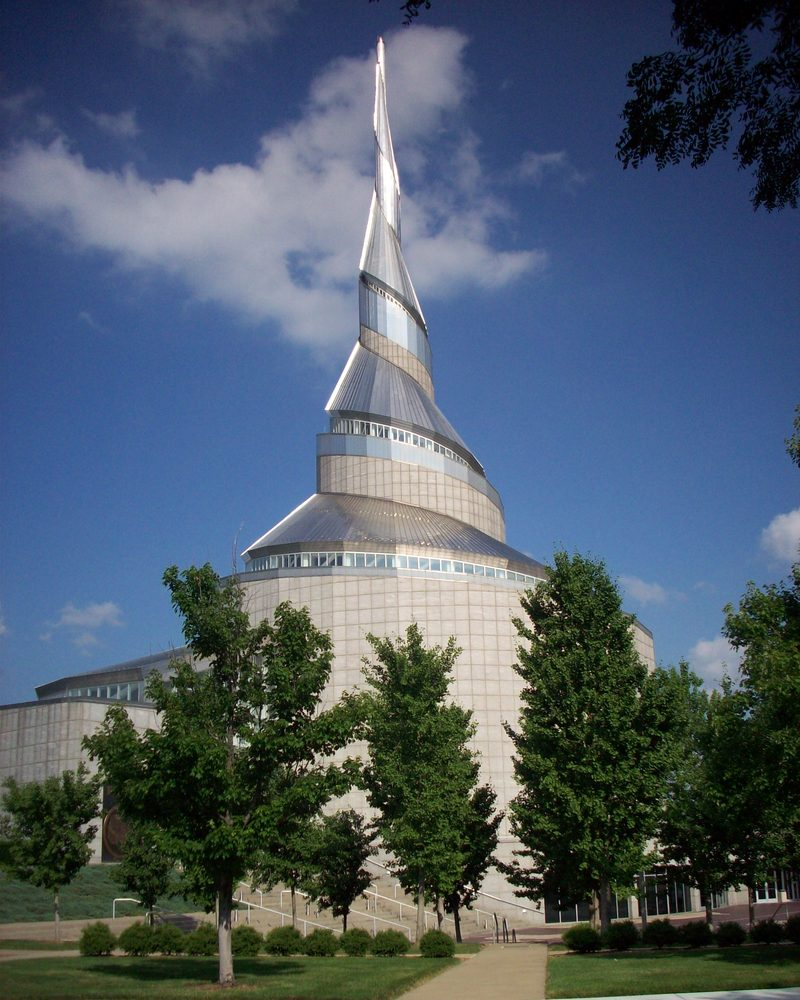
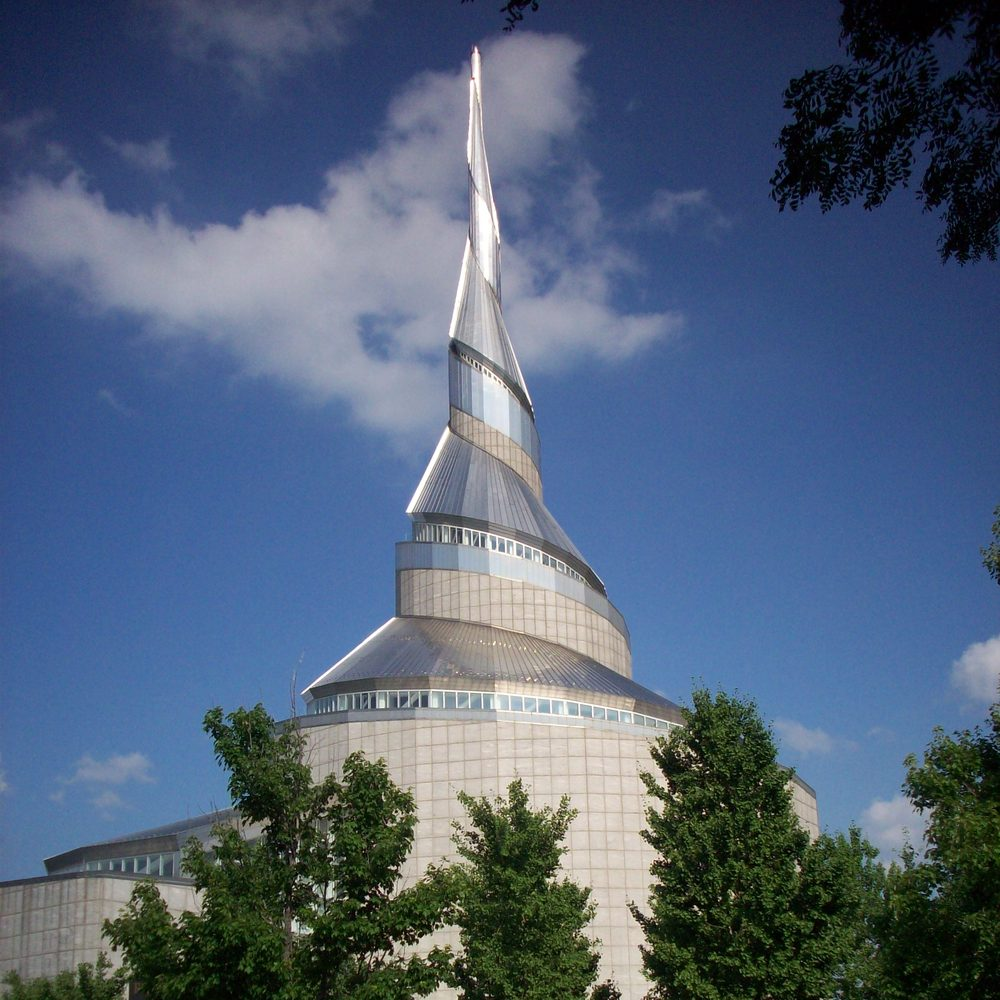
Show itinerary photos as 280px squares
Swap the arch frames for plain squares with the site's small corner
radius, re-cropped from the Commons originals at 1000x1000. The photo
column is 280px on desktop, 200px on tablets and full width on phones.

diff --git a/index.html b/index.html
@@ -112,7 +112,7 @@
             <p>Gather at 1:30 PM at the Independence Visitors' Center. The Temple Lot, the Community of Christ Temple, the 1833 printing office site, and the courthouse square, then a welcome dinner with your hosts.</p>
             <p class="her"><strong>Her story</strong>Teenage sisters Mary Elizabeth and Caroline Rollins rescued pages of the revelations as a mob wrecked the press, and hid on top of them in a cornfield.</p>
           </div>
-          <figure class="day-photo"><img src="assets/itinerary/day1-independence.jpg" alt="The spiral spire of the Community of Christ Temple in Independence, Missouri" width="800" height="1000" loading="lazy"></figure>
+          <figure class="day-photo"><img src="assets/itinerary/day1-independence.jpg" alt="The spiral spire of the Community of Christ Temple in Independence, Missouri" width="1000" height="1000" loading="lazy"></figure>
         </article>
         <article class="day">
           <div><div class="day-num">Day 2</div><div class="day-date">Tue, April 20</div></div>
@@ -121,7 +121,7 @@
             <p>Liberty Jail, the Eight Witnesses monument, the graves of David Whitmer, Oliver Cowdery, Jacob and John Whitmer, the Richmond courthouse square, and the Far West temple site. Lunch on your own on Liberty's historic square; group dinner in the evening.</p>
             <p class="her"><strong>Her story</strong>Mary Fielding Smith and her sister Mercy Fielding Thompson travelled 40 miles in February so Hyrum could see his newborn son in Liberty Jail. In Richmond, Mary Whitmer, the only woman known to have seen the gold plates, rests beside her husband.</p>
           </div>
-          <figure class="day-photo"><img src="assets/itinerary/day2-whitmer.jpg" alt="David Whitmer's headstone in Richmond, Missouri, inscribed with his testimony" width="800" height="1000" loading="lazy"></figure>
+          <figure class="day-photo"><img src="assets/itinerary/day2-whitmer.jpg" alt="David Whitmer's headstone in Richmond, Missouri, inscribed with his testimony" width="1000" height="1000" loading="lazy"></figure>
         </article>
         <article class="day">
           <div><div class="day-num">Day 3</div><div class="day-date">Wed, April 21</div></div>
@@ -130,7 +130,7 @@
             <p>Hawn's Mill, Adam-ondi-Ahman with a picnic lunch, and Gallatin, then east across Missouri to Washington Park in Quincy, Illinois. Dinner on your own in downtown Quincy, and an evening walk at the Nauvoo Temple.</p>
             <p class="her"><strong>Her story</strong>Amanda Barnes Smith at Hawn's Mill, Eliza R. Snow at Adam-ondi-Ahman, and Emma Smith crossing the frozen Mississippi to reach Quincy.</p>
           </div>
-          <figure class="day-photo"><img src="assets/itinerary/day3-adam-ondi-ahman.jpg" alt="Sunset over the valley at Adam-ondi-Ahman, Missouri" width="800" height="1000" loading="lazy"></figure>
+          <figure class="day-photo"><img src="assets/itinerary/day3-adam-ondi-ahman.jpg" alt="Sunset over the valley at Adam-ondi-Ahman, Missouri" width="1000" height="1000" loading="lazy"></figure>
         </article>
         <article class="day">
           <div><div class="day-num">Day 4</div><div class="day-date">Thu, April 22</div></div>
@@ -139,7 +139,7 @@
             <p>The Monument to Women garden, Historic Nauvoo, the Joseph Smith Homestead, Mansion House, Red Brick Store, and Smith Family Cemetery. A free afternoon for the temple, more sites, or Mulholland Street, then the Trail of Hope at dusk.</p>
             <p class="her"><strong>Her story</strong>The Relief Society began as a sewing society in Sarah Granger Kimball's parlor and was organized upstairs in the Red Brick Store in 1842.</p>
           </div>
-          <figure class="day-photo"><img src="assets/itinerary/day4-red-brick-store.jpg" alt="Joseph Smith's Red Brick Store in Nauvoo, Illinois" width="800" height="1000" loading="lazy"></figure>
+          <figure class="day-photo"><img src="assets/itinerary/day4-red-brick-store.jpg" alt="Joseph Smith's Red Brick Store in Nauvoo, Illinois" width="1000" height="1000" loading="lazy"></figure>
         </article>
         <article class="day">
           <div><div class="day-num">Day 5</div><div class="day-date">Fri, April 23</div></div>
@@ -147,7 +147,7 @@
             <h3>Carthage</h3>
             <p>A closing visit and devotional at Carthage Jail, where the tour concludes in the early afternoon.</p>
           </div>
-          <figure class="day-photo"><img src="assets/itinerary/day5-carthage.jpg" alt="Carthage Jail in Carthage, Illinois" width="800" height="1000" loading="lazy"></figure>
+          <figure class="day-photo"><img src="assets/itinerary/day5-carthage.jpg" alt="Carthage Jail in Carthage, Illinois" width="1000" height="1000" loading="lazy"></figure>
         </article>
       </div>
       <p class="photo-credits">Photos from Wikimedia Commons, cropped: Day 1 by Ecjmartin1 and Day 5 by Nyttend, public domain. Day 2, <a href="https://commons.wikimedia.org/wiki/File:David_Whitmer_gravesite,_tombstone_updated_in_2021.jpg">David Whitmer gravesite</a> by Ablonquist, and Day 4, <a href="https://commons.wikimedia.org/wiki/File:JSHS_Red_Brick_Store_P6081168.JPG">Red Brick Store</a> by Chris Light, both <a href="https://creativecommons.org/licenses/by-sa/4.0/">CC BY-SA 4.0</a>. Day 3 by Ctel2177, CC0.</p>

diff --git a/styles.css b/styles.css
@@ -112,7 +112,7 @@ section { padding: 96px 0; }
 
 /* Itinerary */
 .days { margin-top: 56px; display: grid; gap: 0; }
-.day { display: grid; grid-template-columns: 180px minmax(0, 1fr) 240px; gap: 32px 48px; padding: 40px 0; border-top: 1px solid var(--line); align-items: start; }
+.day { display: grid; grid-template-columns: 180px minmax(0, 1fr) 280px; gap: 32px 48px; padding: 40px 0; border-top: 1px solid var(--line); align-items: start; }
 .day:last-child { border-bottom: 1px solid var(--line); }
 .day-num { font-family: var(--serif); font-size: 22px; color: var(--rust); font-weight: 600; }
 .day-date { font-size: 13px; letter-spacing: 0.18em; text-transform: uppercase; color: var(--muted); margin-top: 4px; }
@@ -120,19 +120,14 @@ section { padding: 96px 0; }
 .day p { margin: 0; color: var(--muted); }
 .day .her { margin-top: 14px; color: var(--ink); font-size: 16px; }
 .day .her strong { font-weight: 500; letter-spacing: 0.12em; text-transform: uppercase; font-size: 12px; color: var(--rust); display: block; margin-bottom: 2px; }
-/* Day photos sit in an arch, with a second outline echoing the double arch of the logo */
-.day-photo { margin: 7px; }
-.day-photo img {
-  width: 100%; height: auto; aspect-ratio: 4 / 5; object-fit: cover;
-  border-radius: 50% 50% var(--radius) var(--radius) / 40% 40% var(--radius) var(--radius);
-  outline: 1px solid var(--dark-olive); outline-offset: 6px;
-}
+.day-photo { margin: 0; }
+.day-photo img { width: 100%; height: auto; aspect-ratio: 1; object-fit: cover; border-radius: var(--radius); }
 .photo-credits { margin: 24px 0 0; font-size: 12px; line-height: 1.5; color: var(--muted); max-width: 820px; }
 .photo-credits a { color: inherit; }
 @media (max-width: 960px) { .day { grid-template-columns: 140px minmax(0, 1fr) 200px; gap: 24px 32px; } }
 @media (max-width: 700px) {
   .day { grid-template-columns: 1fr; gap: 8px; }
-  .day-photo { max-width: 300px; margin-top: 20px; }
+  .day-photo { margin-top: 20px; }
 }
 
 /* Hosts */

diff --git a/CLAUDE.md b/CLAUDE.md
@@ -15,7 +15,7 @@ Static website for Parley Street Travel Co., LLC, selling seats on its first tou
 - Colors: Olive `#4A5530` (main and backgrounds), Cream `#EFE9DA` (light backgrounds and text on olive), Dark Olive `#33391F` (text and line work on cream), Burnt Orange `#D98A52` (the sun, on olive only), Rust `#B4592B` (the sun and small accents, on cream). Olive and cream do most of the work; keep the oranges to the sun and small details.
 - Type: Cormorant Garamond semibold for the name and headlines; Jost medium and regular for labels and body text. Small labels are set in capitals with wide letter spacing. Both fonts load from Google Fonts.
 - Logo: the cream logo goes on olive and the dark logo on cream. Never stretch, recolor or redraw it. `assets/logo-horizontal-cream.svg` is file 08 (horizontal, reversed) and `assets/favicon.svg` is file 11 (icon on olive) from the owner's Final Logo Kit, with only the empty margin trimmed from the viewBox. `assets/apple-touch-icon.png` is rendered from the favicon.
-- Itinerary photos: `assets/itinerary/` holds one 800×1000 (4:5) photo per day, shown in an arch frame. All come from Wikimedia Commons under public domain, CC0 or CC BY-SA 4.0. The CC BY-SA photos (Days 2 and 4) legally require the credit line under the itinerary, so keep `.photo-credits` in step with any photo you swap. Only use replacements whose license allows commercial use.
+- Itinerary photos: `assets/itinerary/` holds one 1000×1000 square photo per day, shown as a plain square with the site's small corner radius. All come from Wikimedia Commons under public domain, CC0 or CC BY-SA 4.0. The CC BY-SA photos (Days 2 and 4) legally require the credit line under the itinerary, so keep `.photo-credits` in step with any photo you swap. Only use replacements whose license allows commercial use.
 
 ## Tour facts (keep the copy consistent with these)
 
